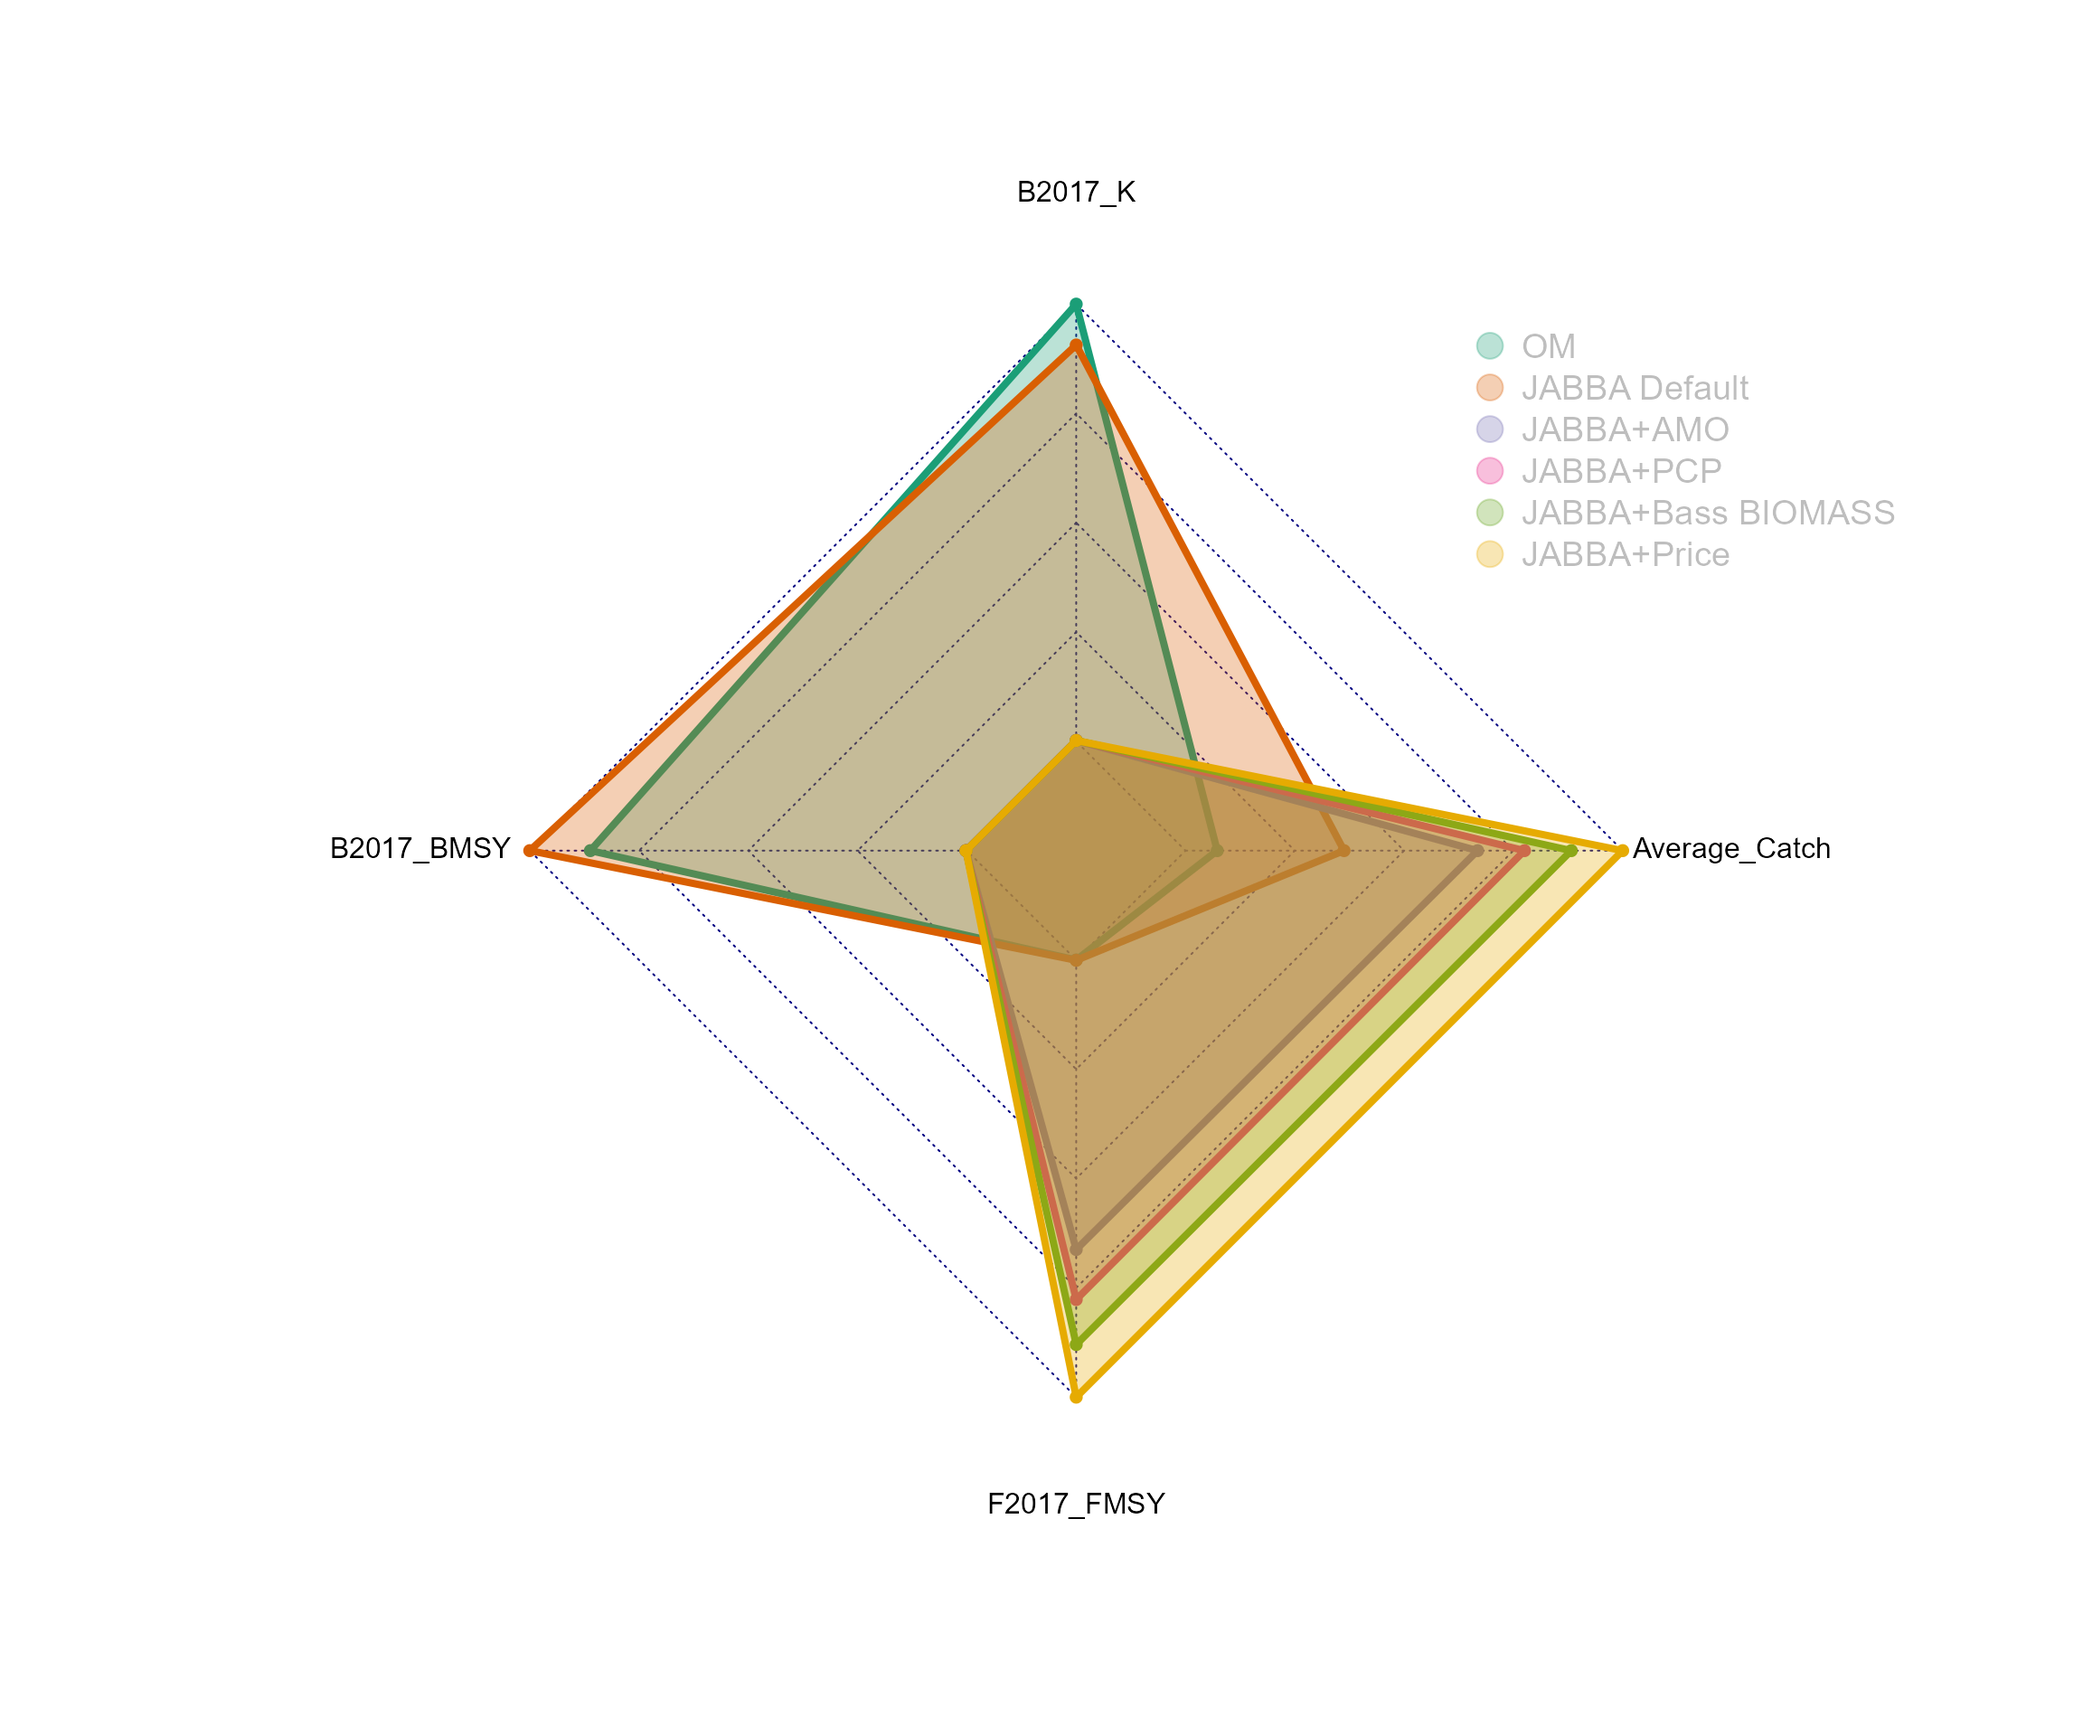
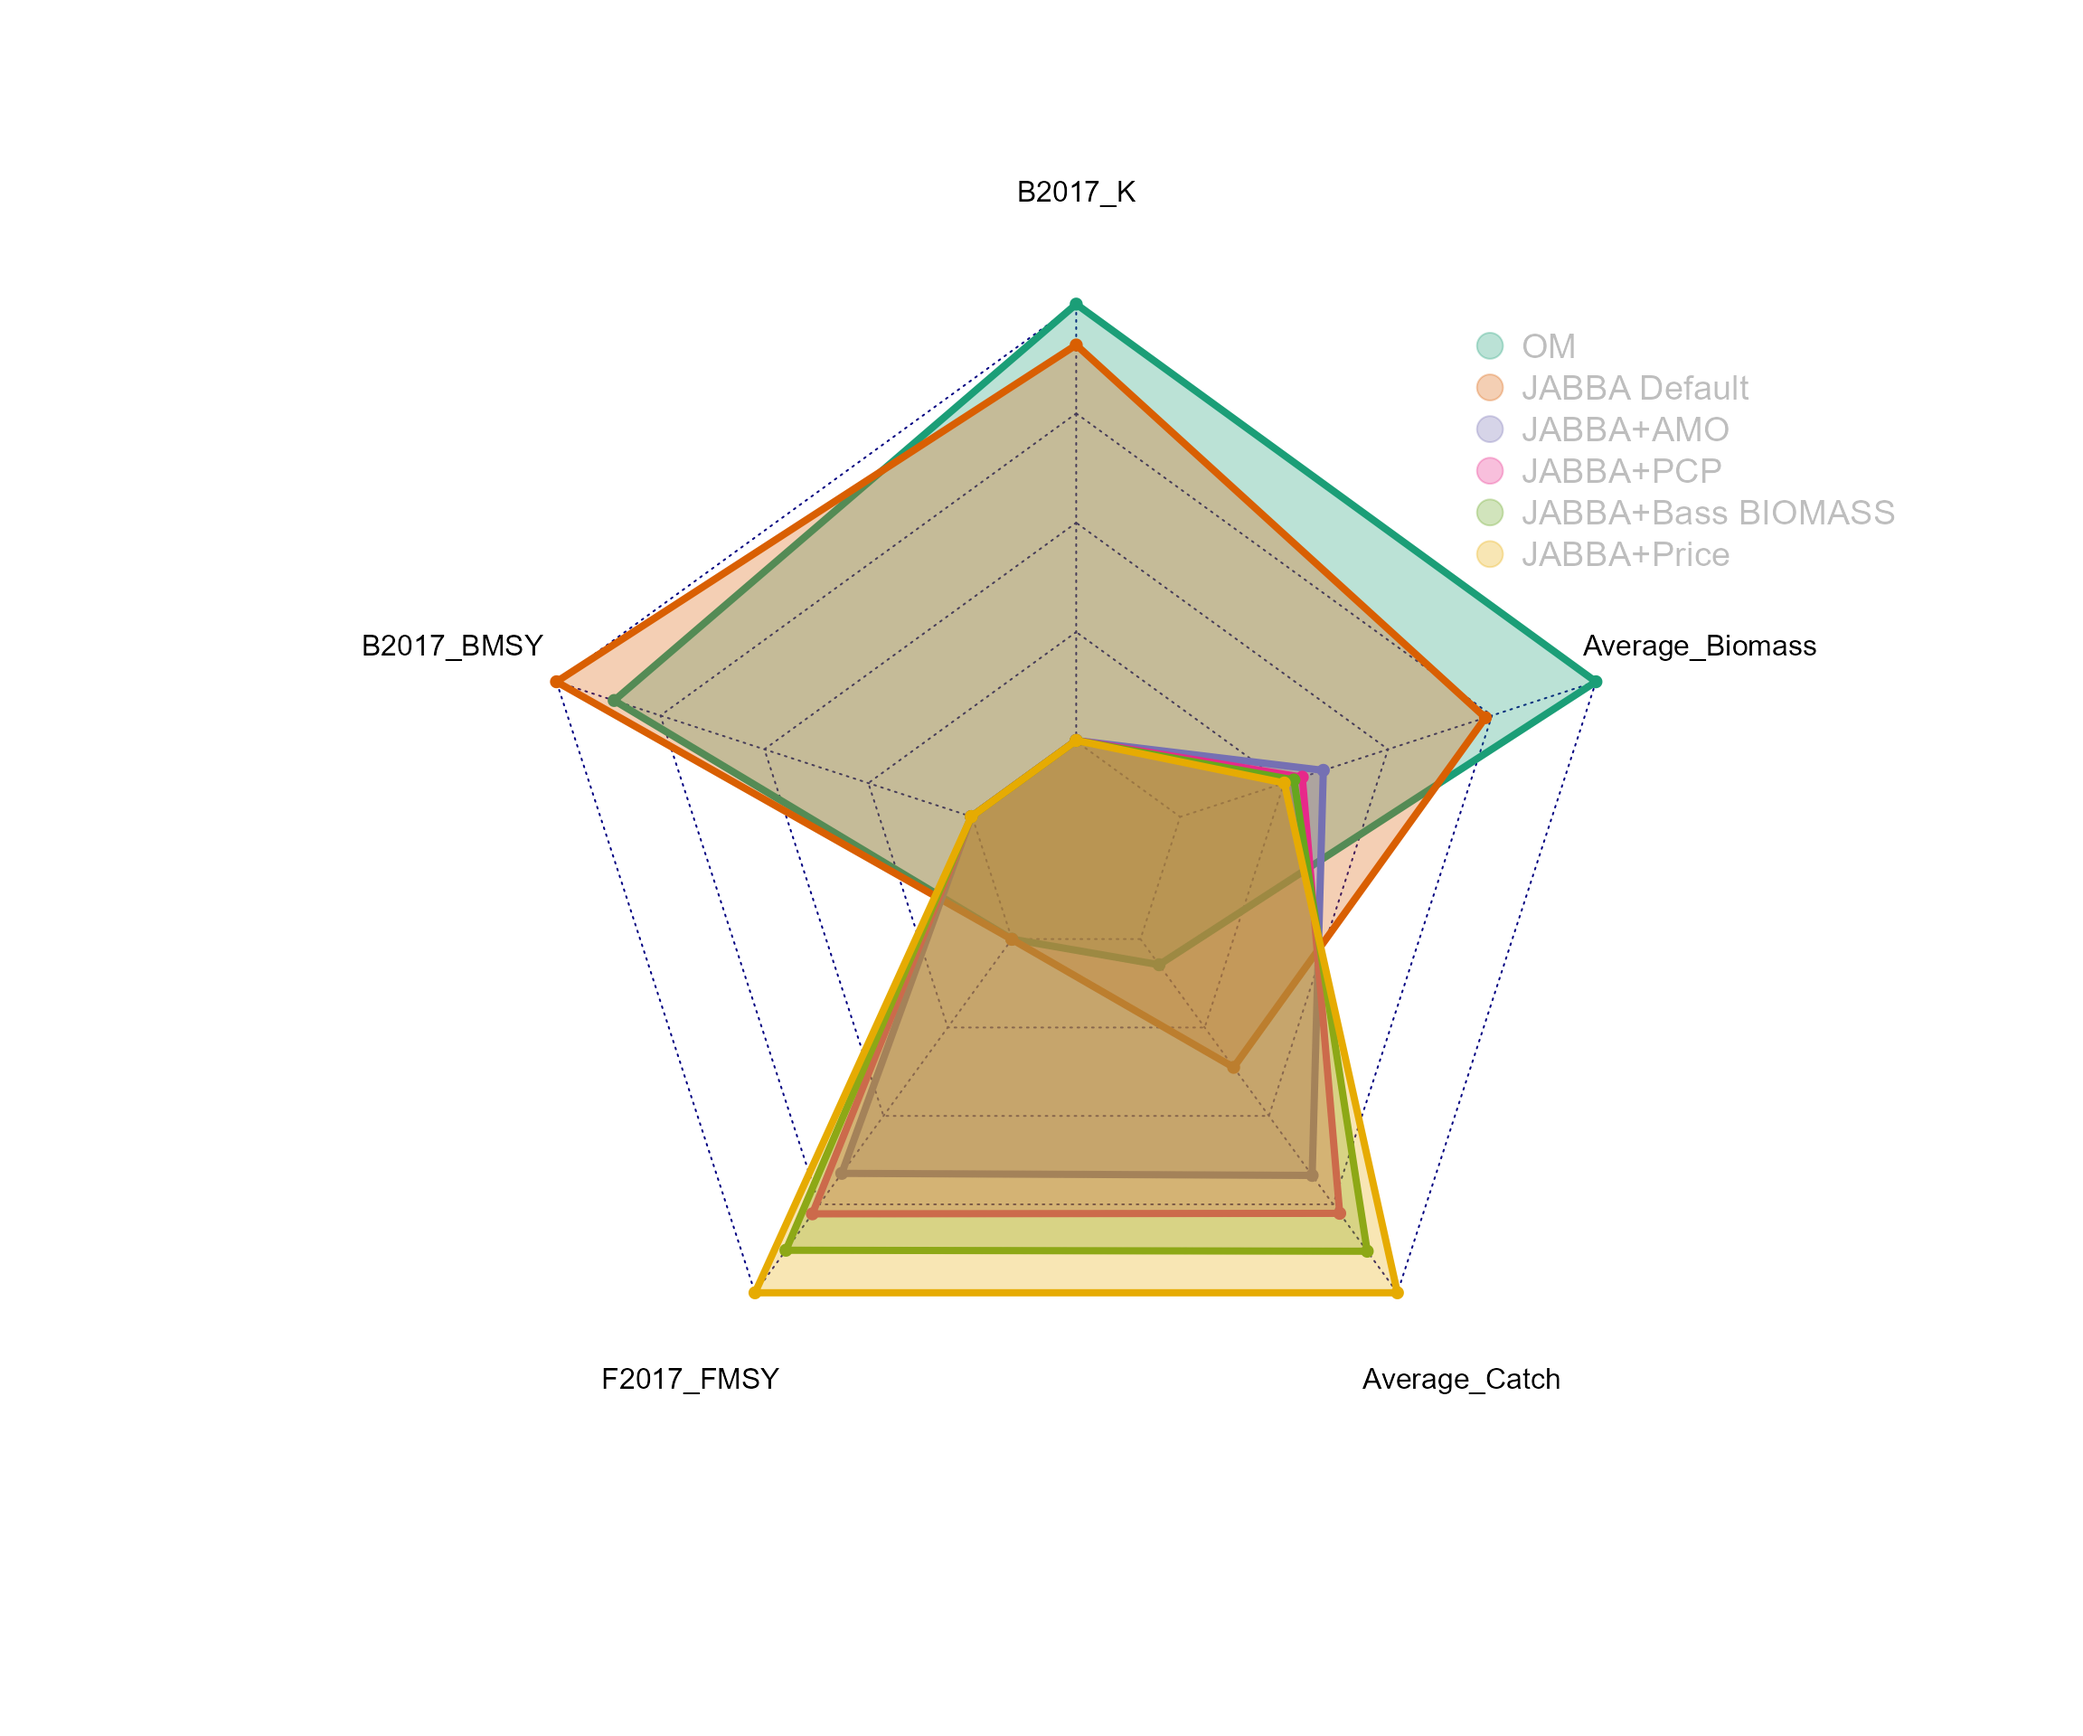
add average biomass to radar charts

diff --git a/docs/articles/12_Data_moderate_stock_assessmet_with_new_EwE_OM.html b/docs/articles/12_Data_moderate_stock_assessmet_with_new_EwE_OM.html
@@ -153,7 +153,8 @@
 <h2 id="case-0-stock-assessment-base-run">Case 0: stock assessment base run<a class="anchor" aria-label="anchor" href="#case-0-stock-assessment-base-run"></a>
 </h2>
 <ul>
-<li>Case 0: K = 4000000, r = 0.8 with small CV (update input values based on known ballpark values from EwE)</li>
+<li>Input: K = 3500000, r = 0.2, B1985/K = 0.7</li>
+<li>Output: K = 3973319.89, r = 0.2, B1985/K = 0.69</li>
 </ul>
 <p><img src="12_Data_moderate_stock_assessmet_with_new_EwE_OM_files/figure-html/unnamed-chunk-2-1.png" width="1152"><img src="12_Data_moderate_stock_assessmet_with_new_EwE_OM_files/figure-html/unnamed-chunk-2-2.png" width="1152"></p>
 </div>
@@ -165,8 +166,11 @@
 <li>Case 2: Link Palmer drought severity index with menhaden biomass estimates and adjust projections: PSDI is a long-term indicator of drought conditions and it reflects river discharge and precipitation</li>
 <li>Case 3: Link biomass of Striped bass from the EwE with menhaden biomass estimates and adjust projections because bass is a major predator</li>
 <li>Case 4: Link fishing effort of menhaden with menhaden biomass estimates and adjust projections</li>
-<li>Linear regression models from case 1 - 4</li>
-<li>True biomass of menhaden-like species as functions of AMO, precipitation, biomass of striped bass, and price of menhaden</li>
+<li>Linear regression models from case 1 - 4
+<ul>
+<li>True biomass of menhaden-like species as functions of AMO, PDSI, biomass of striped bass, and fishing effort of menhaden</li>
+</ul>
+</li>
 </ul>
 <div class="section level3">
 <h3 id="status-of-indicators-soi">Status of indicators (SOI)<a class="anchor" aria-label="anchor" href="#status-of-indicators-soi"></a>
@@ -182,10 +186,6 @@
 </li>
 </ul>
 <p><img src="12_Data_moderate_stock_assessmet_with_new_EwE_OM_files/figure-html/unnamed-chunk-3-1.png" width="1152"></p>
-<ul>
-<li>Using scaled or raw AMO and precipitation values do not make a difference. Here we used raw environmental values</li>
-<li>The quantity of economic data for Atlantic menhaden is low. Here we used economic data for menhaden from New England, Middle Atlantic, and South Atlantic regions</li>
-</ul>
 </div>
 <div class="section level3">
 <h3 id="adjust-projection">Adjust projection<a class="anchor" aria-label="anchor" href="#adjust-projection"></a>

diff --git a/docs/articles/07_Data_moderate_stock_assessment.html b/docs/articles/07_Data_moderate_stock_assessment.html
@@ -153,7 +153,8 @@
 <h2 id="case-0-stock-assessment-base-run">Case 0: stock assessment base run<a class="anchor" aria-label="anchor" href="#case-0-stock-assessment-base-run"></a>
 </h2>
 <ul>
-<li>Case 0: K = 4000000, r = 0.8 with small CV (update input values based on known ballpark values from EwE)</li>
+<li>Input: K = 4000000, r = 0.8</li>
+<li>Output: K = 3153839.331, r = 0.798</li>
 </ul>
 <p><img src="07_Data_moderate_stock_assessment_files/figure-html/unnamed-chunk-2-1.png" width="1152"><img src="07_Data_moderate_stock_assessment_files/figure-html/unnamed-chunk-2-2.png" width="1152"></p>
 </div>
@@ -204,10 +205,10 @@ price
 True indices
 </td>
 <td style="text-align:left;">
-253334.99
+118940.78
 </td>
 <td style="text-align:left;">
-3272.33
+7162.48
 </td>
 <td style="text-align:left;">
 0.72
@@ -265,10 +266,10 @@ price
 2013
 </td>
 <td style="text-align:left;">
-518880.05*
+243614.18*
 </td>
 <td style="text-align:left;">
--31499.65
+-68946.43
 </td>
 <td style="text-align:left;">
 0.86*
@@ -285,10 +286,10 @@ price
 2014
 </td>
 <td style="text-align:left;">
-518880.05*
+243614.18*
 </td>
 <td style="text-align:left;">
--31499.65
+-68946.43
 </td>
 <td style="text-align:left;">
 0.86*
@@ -305,10 +306,10 @@ price
 2015
 </td>
 <td style="text-align:left;">
-518880.05*
+243614.18*
 </td>
 <td style="text-align:left;">
--31499.65
+-68946.43
 </td>
 <td style="text-align:left;">
 0.86*
@@ -325,10 +326,10 @@ price
 2016
 </td>
 <td style="text-align:left;">
-518880.05*
+243614.18*
 </td>
 <td style="text-align:left;">
--31499.65
+-68946.43
 </td>
 <td style="text-align:left;">
 0.86*
@@ -345,10 +346,10 @@ price
 2017
 </td>
 <td style="text-align:left;">
-518880.05*
+243614.18*
 </td>
 <td style="text-align:left;">
--31499.65
+-68946.43
 </td>
 <td style="text-align:left;">
 0.86*
